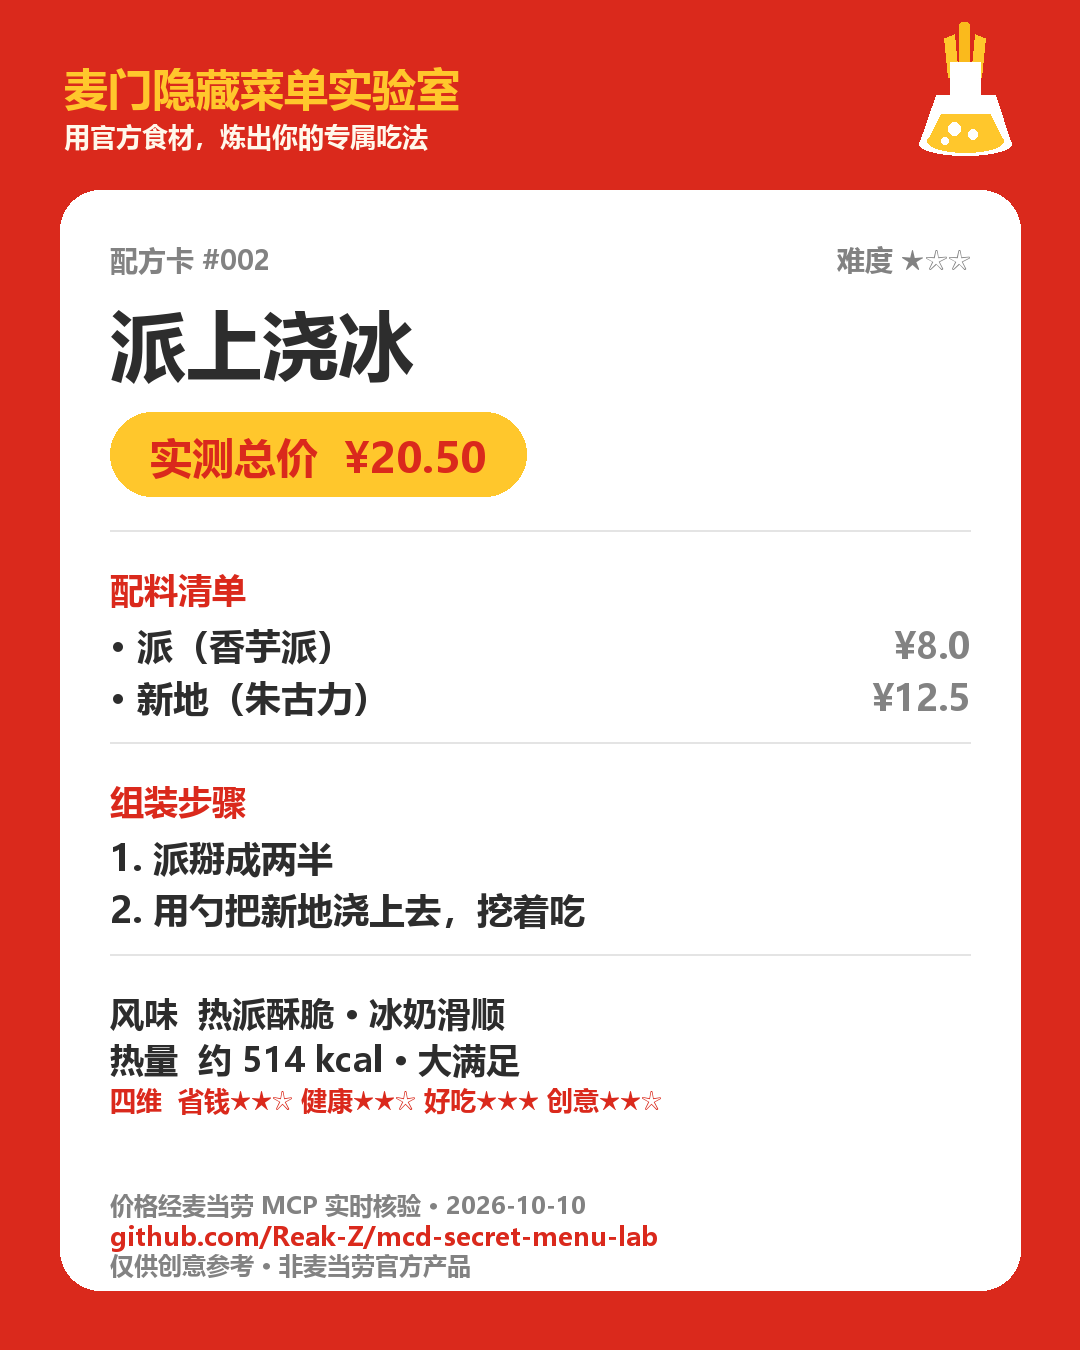
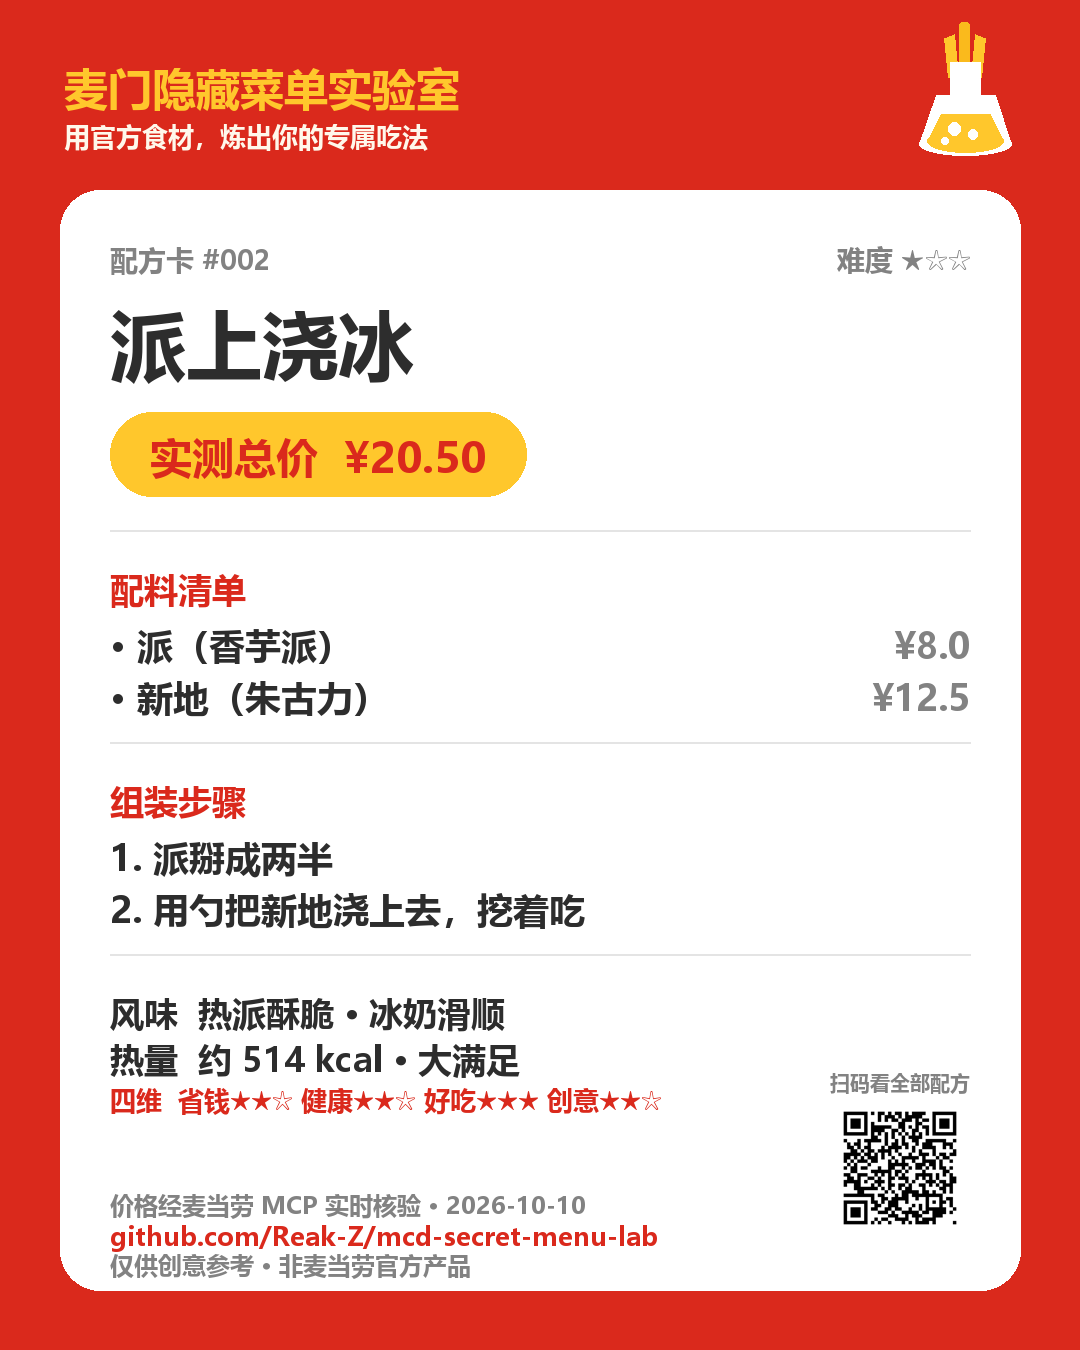
feat: 配方卡二维码（扫码直达在线画廊）+ 文档同步

Changed region(s): [[0.7639, 0.7778, 0.8861, 0.9333]]

diff --git a/tools/make_recipe_card.py b/tools/make_recipe_card.py
@@ -17,6 +17,13 @@ from PIL import Image, ImageDraw, ImageFont
 
 from emblem import draw_emblem
 
+try:
+    import qrcode
+except ImportError:  # qrcode 未安装时自动跳过二维码
+    qrcode = None
+
+GALLERY_URL = "https://reak-z.github.io/mcd-secret-menu-lab/"
+
 # ---------- 品牌色 ----------
 RED = (218, 41, 28)        # 麦当劳红
 YELLOW = (255, 199, 44)    # 麦当劳黄
@@ -205,6 +212,12 @@ def make_card(r, out_path):
     d.text((x, H - 162), "价格经麦当劳 MCP 实时核验 · 2026-10-10", font=load_font(24), fill=GRAY)
     d.text((x, H - 132), "github.com/Reak-Z/mcd-secret-menu-lab", font=load_font(26), fill=RED)
     d.text((x, H - 102), "仅供创意参考 · 非麦当劳官方产品", font=load_font(24), fill=GRAY)
+
+    # 二维码（右下角，扫码直达在线配方画廊）
+    if qrcode is not None:
+        d.text((W - 250, H - 282), "扫码看全部配方", font=load_font(20), fill=GRAY)
+        qr = qrcode.make(GALLERY_URL).convert("RGB").resize((140, 140))
+        img.paste(qr, (W - 250, H - 252))
 
     img.save(out_path, "PNG")
     return out_path

diff --git a/README.md b/README.md
@@ -13,7 +13,7 @@
 
 **2026 麦当劳程序员创意开发大赛参赛作品** · 基于 [麦当劳中国官方 MCP](https://github.com/M-China/mcd-mcp-server) 开发 · 使用 [WorkBuddy](https://www.workbuddy.cn/) 构建
 
-> 🍟 **只想看配方？** → [14 个实测配方一览](references/recipes.md) ｜ 📸 [配方卡画廊](assets/cards/) ｜ 🎬 见下方[在线演示](#-在线演示) ｜ 🧪 [投稿你的 DIY](DIY_RANKING.md)
+> 🍟 **只想看配方？** → 🌐 [在线配方画廊](https://reak-z.github.io/mcd-secret-menu-lab/)（手机友好）｜ [14 个实测配方文档](references/recipes.md) ｜ 🎬 见下方[在线演示](#-在线演示) ｜ 🧪 [投稿你的 DIY](DIY_RANKING.md)
 
 ---
 
@@ -66,7 +66,9 @@
 ╰────────────────────────────────╯
 ```
 
-还能一键生成**图片版配方卡**（1080×1350，可直接发社交媒体）：
+还能一键生成**图片版配方卡**（1080×1350，可直接发社交媒体；右下角二维码扫码直达在线画廊）：
+
+🌐 **在线配方画廊（手机友好）**：https://reak-z.github.io/mcd-secret-menu-lab/
 
 <p>
 <img src="assets/cards/card_001.png" width="46%">

diff --git a/tools/README.md b/tools/README.md
@@ -1,9 +1,10 @@
 # 🛠 tools/ 脚本说明
 
-本目录包含项目的全部可运行脚本。依赖：`pip install -r requirements.txt`（仅 Pillow）。
+本目录包含项目的全部可运行脚本。依赖：`pip install -r requirements.txt`（Pillow + qrcode；`mcd_verify.py` 与 `diy_ranking.py` 仅用标准库，无需安装任何依赖）。
 
 | 脚本 | 用途 | 用法 |
 |---|---|---|
+| `mcd_verify.py` | **独立核验脚本**：命令行直接核验配方（实时价格 + 官方营养 + 健康分级 + 四维预评分），**无需 WorkBuddy** | `python tools/mcd_verify.py verify 4810 9900008754 --store 1410005` |
 | `install.py` | 一键安装 Skill 到本机（自动探测 WorkBuddy / Claude Code 技能目录） | `python tools/install.py` |
 | `diy_ranking.py` | 扫描「DIY配方」标签的 Issue，按反应数生成 `DIY_RANKING.md`（由 GitHub Actions 每日自动调用） | `python tools/diy_ranking.py --token <GITHUB_TOKEN>` |
 | `emblem.py` | 绘制项目原创标识（烧瓶+薯条），导出 `assets/emblem.png` | `python tools/emblem.py` |
